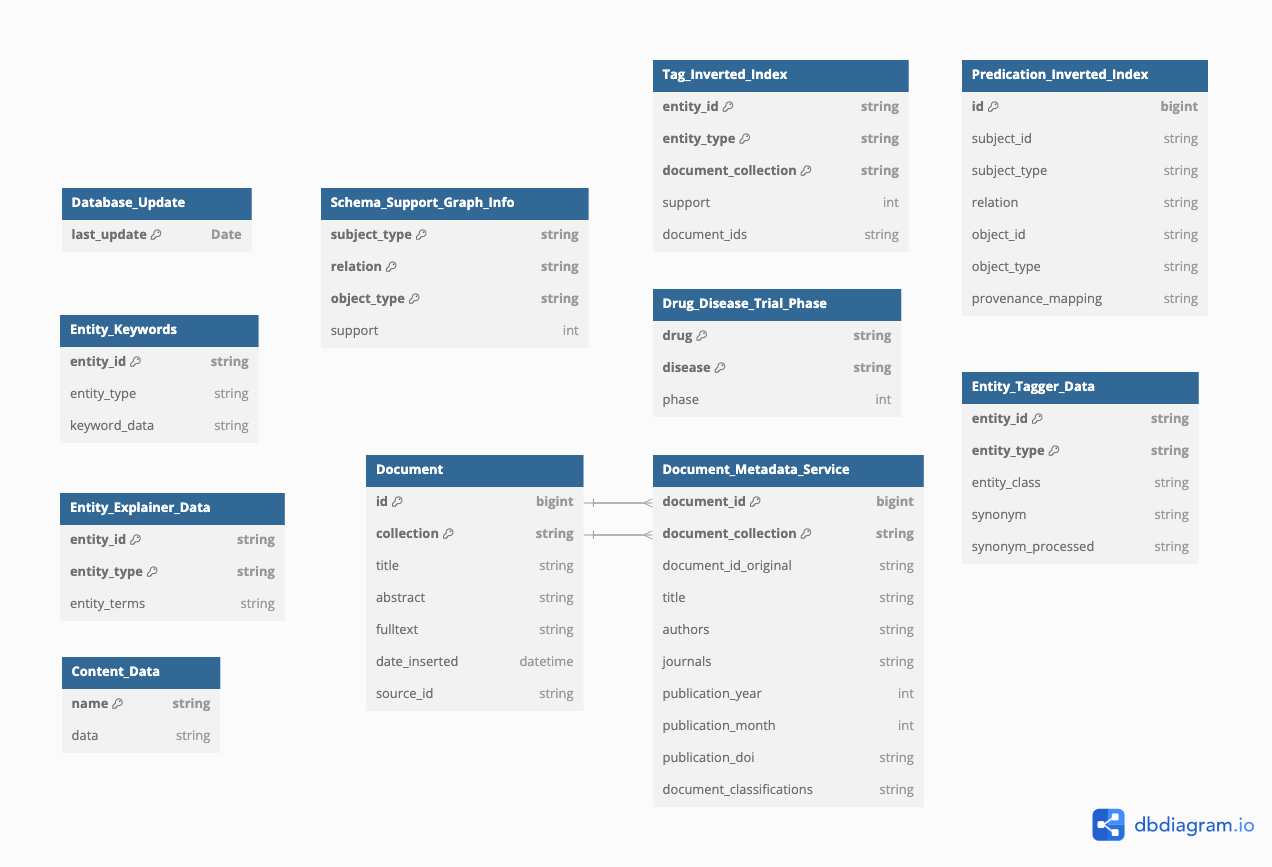
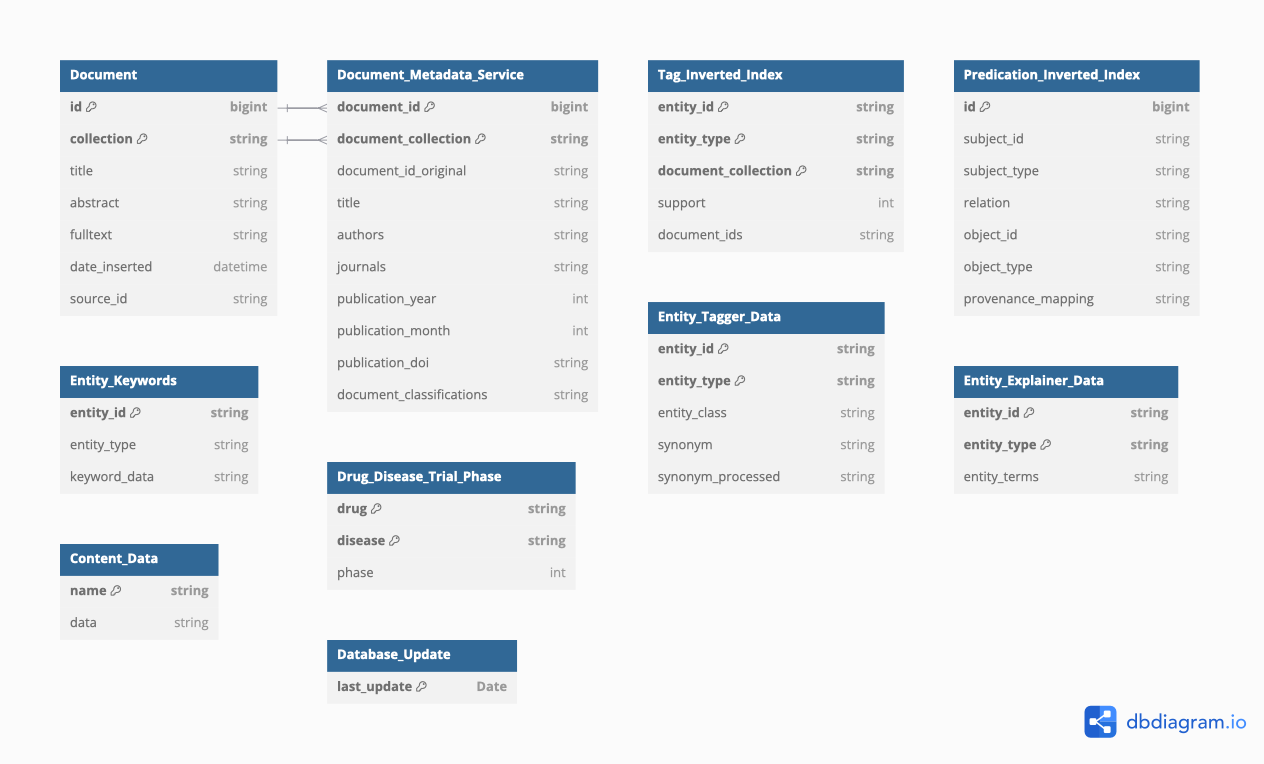
#318 #329 remove schema graph (not used anymore)

diff --git a/src/narraint/backend/models.py b/src/narraint/backend/models.py
@@ -187,15 +187,6 @@ class EntityKeywords(Extended, DatabaseTable):
         session.commit()
 
 
-class SchemaSupportGraphInfo(Extended, DatabaseTable):
-    __tablename__ = "schema_support_graph_info"
-
-    subject_type = Column(String, nullable=False, primary_key=True)
-    relation = Column(String, nullable=False, primary_key=True)
-    object_type = Column(String, nullable=False, primary_key=True)
-    support = Column(Integer, nullable=False)
-
-
 class DrugDiseaseTrialPhase(Extended, DatabaseTable):
     __tablename__ = "drug_disease_trial_phase"
 
